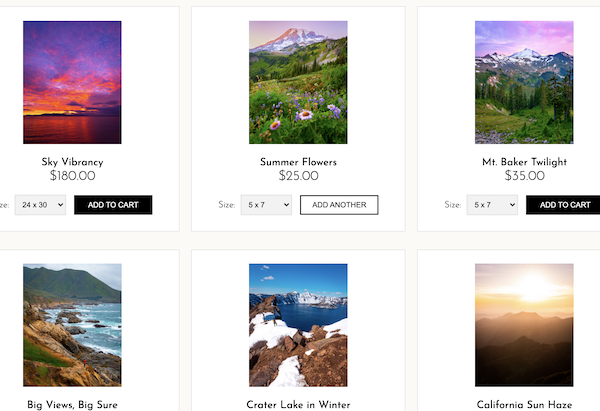
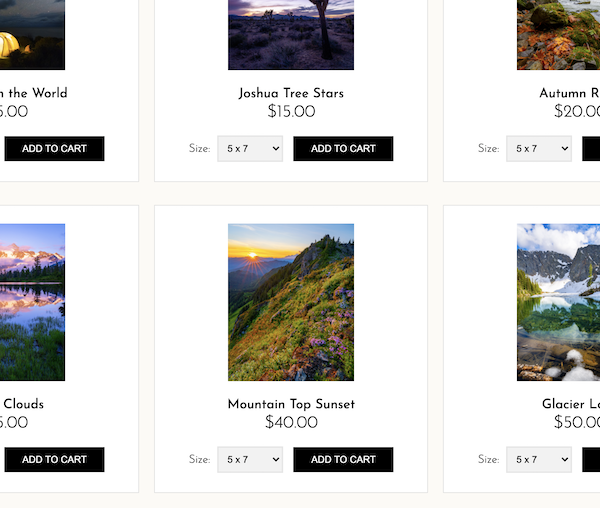
replace screenshot of photo store project, update screenshot link, reorder projects

diff --git a/src/components/Projects/Projects.tsx b/src/components/Projects/Projects.tsx
@@ -47,6 +47,15 @@ const Projects: React.FC = () => {
           languages={["javascript", "rails", "ruby", "postgres", "css", "html", "ps"]}
         />
         <Project 
+          title="PHOTO STORE"
+          snippet="SPA e-commerce store for photography prints" 
+          highlights={["Integrated Context API and useReducer for global state management", "Built with modern React hooks, JS ES6+, and TypeScript", "Utilized styled-components for custom UI design and styling", "Integrated Stripe API for secure payment transactions"]}
+          snapshot="https://user-images.githubusercontent.com/65590878/108535967-bdcb3380-7290-11eb-95cc-9f7585f8ea73.png"
+          github="https://github.com/dougschallmoser/photography-store"
+          live="https://photography-store.netlify.app/"
+          languages={["react", "typescript", "javascript", "css", "html"]}
+        />
+        <Project 
           title="CONNECTAROT"
           snippet="Interactive MPA for user and computer generated tarot card readings" 
           highlights={["Implemented full CRUD functionality, complex forms, validations, error handling, and user authorization", "Integrated MVC paradigm, RESTful API architecture complex model associations, ActiveRecord, and scope methods", "Integrated standard user accounts plus third-party user authentication with Github/Facebook through OAuth2"]}
@@ -54,15 +63,6 @@ const Projects: React.FC = () => {
           github="https://github.com/dougschallmoser/connectarot"
           live="https://connectarot.herokuapp.com/"
           languages={["rails", "ruby", "postgres", "css", "html"]}
-        />
-        <Project 
-          title="PHOTO STORE"
-          snippet="SPA e-commerce store for photography prints" 
-          highlights={["Integrated Context API and useReducer for global state management", "Built with modern React hooks, JS ES6+, and TypeScript", "Utilized styled-components for custom UI design and styling", "Integrated Stripe API for secure payment transactions"]}
-          snapshot="https://user-images.githubusercontent.com/65590878/108454788-e7994180-7221-11eb-8635-260805937327.png"
-          github="https://github.com/dougschallmoser/photography-store"
-          live="https://photography-store.netlify.app/"
-          languages={["react", "typescript", "javascript", "css", "html"]}
         />
         <Project 
           title="PORTFOLIO"
